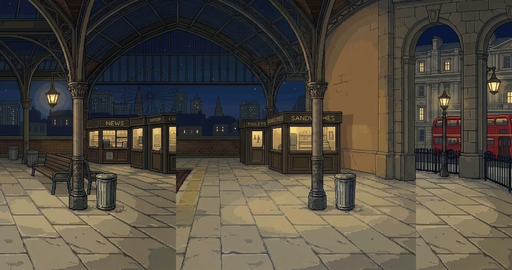
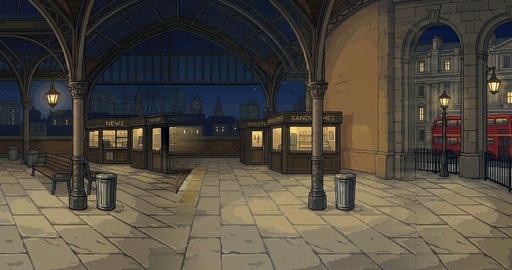
V64: smooth the Charing Cross and Smoking Area joins; Meshy pegs, rota, chair and smoker
meshy_bg.py gains "seams": the colour step at a join is measured row by row and
spread out over 90 columns either side, so the faint lines on the Charing Cross
concourse and by the Smoking Area's arched window go. The fishery's peg markers,
Jo's rota board, Nozzer's chair and the smoker are repainted in Meshy in place
(repaint.py, same shapes; the game still writes on the rota and the pegs).
repaint.py takes LIGHT and STYLES for daylight sheets.

Claude-Session: https://claude.ai/code/session_01G9hG8uJMGeScPwqm8CwBsv

diff --git a/web/index.html b/web/index.html
@@ -7044,6 +7044,10 @@ function drawStageBg() {
   if (ST.bg === 'kebab') { kebabBg(); return; }   // Version 59
   if (meshyBg()) return;   // Version 64: painted in Meshy
   if (ST.bg === 'kebab') { kebabBg(); return; }   // Version 59
+  if (meshyBg()) return;   // Version 64: painted in Meshy
+  if (ST.bg === 'kebab') { kebabBg(); return; }   // Version 59
+  if (meshyBg()) return;   // Version 64: painted in Meshy
+  if (ST.bg === 'kebab') { kebabBg(); return; }   // Version 59
   if (ST.era === 2006 && nlDrawStageBg(ST.bg)) return;
   if (ST.bg === 'fishery') bgFisheryPixel();
   else if (ST.bg === 'orpington') bgOrpingtonPixel();

diff --git a/tools/v64/repaint.py b/tools/v64/repaint.py
@@ -23,6 +23,10 @@ SHEETS = {
                    "five separate parts from the inside of a 2006 London commuter train and a night bus, side by side: a door frame, the carriage end wall with its door, a train toilet door with a light above it, a pair of sliding train doors with yellow stripes and windows, and the night bus staircase"),
     'bus_deck': (4, [('nightlife/bus_deck', 48, 96)],
                  "the top deck of a London night bus at 2am, seen from inside, side on: red and blue tartan moquette seats, a yellow grab pole, the bus's red side panels and windows, dim interior lights"),
+    'fishery_bits': (5, [('set/board', 20, 30), ('set/peg', 720, 30), ('set/chair', 950, 30)],
+                     "three separate things from a carp fishing lake: a big weathered wooden notice board on two posts holding a blank laminated cream paper sheet (nothing written on it), a small wooden peg marker post with a blank white plate on top (nothing written on it), and a blue folding camping chair"),
+    'fishery_smoker': (6, [('set/smoker', 100, 100)],
+                       "a big black barbecue smoker on a little two-wheeled trailer, with a chimney, a firebox and a temperature gauge, seen from the side"),
     'naval': (4, [('naval/raft', 40, 120), ('naval/bbq', 1130, 220)],
               "two separate things from a midnight carp lake, side by side: a big orange inflatable dinghy seen from the side and slightly above, with yellow straps and grab ropes and a grey floor, and a small black kettle barbecue on legs with glowing coals"),
     'scenery': (3.44, [('nightlife/sc_suburb', 0, 40), ('nightlife/sc_platform', 0, 400)],
@@ -56,10 +60,10 @@ def make(name):
     sheet, what = layout(name)
     work = os.environ.get('MESHY_WORK', '/tmp/meshy_work'); os.makedirs(os.path.join(work, 'repaint'), exist_ok=True)
     sp = os.path.join(work, 'repaint', name + '_layout.png'); sheet.save(sp)
-    prompt = ("Repaint the first image as rich, detailed, gritty 16-bit pixel art in exactly the style, pixel size, texture and moody night lighting of the other images. "
+    prompt = ("Repaint the first image as rich, detailed, gritty 16-bit pixel art in exactly the style, pixel size, texture and " + os.environ.get('LIGHT', 'moody night lighting') + " of the other images. "
               f"It shows {what}. Keep every shape exactly where it is and exactly the same size: the same outlines, the same layout, the same text. "
               "Every flat bright magenta area must stay exactly flat bright magenta (#FF00FF), untouched, with crisp edges. The plain dark grey background stays plain dark grey. No people other than any already there.")
-    subprocess.run([sys.executable, os.path.join(HERE, 'meshy_free.py'), 'repaint', name, prompt, sp + ',street,alley'], check=True,
+    subprocess.run([sys.executable, os.path.join(HERE, 'meshy_free.py'), 'repaint', name, prompt, sp + ',' + os.environ.get('STYLES', 'street,alley')], check=True,
                    env=dict(os.environ, MESHY_WORK=work))
     Image.open(os.path.join(work, 'repaint', name + '_raw.png')).save(os.path.join(R, name + '.webp'), quality=95, method=6)
 

diff --git a/tools/v64/meshy_bg.py b/tools/v64/meshy_bg.py
@@ -48,6 +48,15 @@ def patch(strip, stage, c):
         row = np.median(out[y0:y1, rx0:rx1], axis=1)[:, None, :]; w = dx1 - dx0
         a = np.clip(np.minimum(np.arange(w) + 1, w - np.arange(w)) / 40, 0, 1)[None, :, None]
         out[y0:y1, dx0:dx1] = out[y0:y1, dx0:dx1] * (1 - a) + row * a
+    for x, w in c.get('seams', []):
+        # [x, w]: a faint vertical line at column x where Meshy's kept quarter meets what it painted. Row by row (smoothed
+        # over 9 rows), the colour step across x is measured from 10 columns either side and spread out over w columns
+        # each way, half taken off each side, so the line goes and the picture either side is left as it was.
+        L = out[:, x - 12:x - 2].mean(1); R = out[:, x + 2:x + 12].mean(1); d = R - L
+        k = np.ones(9) / 9; d = np.stack([np.convolve(np.pad(d[:, i], 4, mode='edge'), k, mode='valid') for i in range(3)], 1)
+        t = np.arange(w, dtype=np.float32) / w
+        out[:, x - w:x] += d[:, None, :] * (0.5 * t)[None, :, None]          # left side rises to meet the middle
+        out[:, x:x + w] -= d[:, None, :] * (0.5 * (1 - t))[None, :, None]    # right side comes down to meet it
     for x, name in c.get('patches', []):
         im = np.asarray(Image.open(os.path.join(HERE, 'img', stage, name + '.webp')).convert('RGB').resize((PW, PH))).astype(np.float32)
         x0 = x - PW // 2; a = np.clip(1 - np.abs(np.arange(PW) - PW / 2) / (PW * 0.36), 0, 1); a = np.clip(a * 3, 0, 1)[None, :, None]
